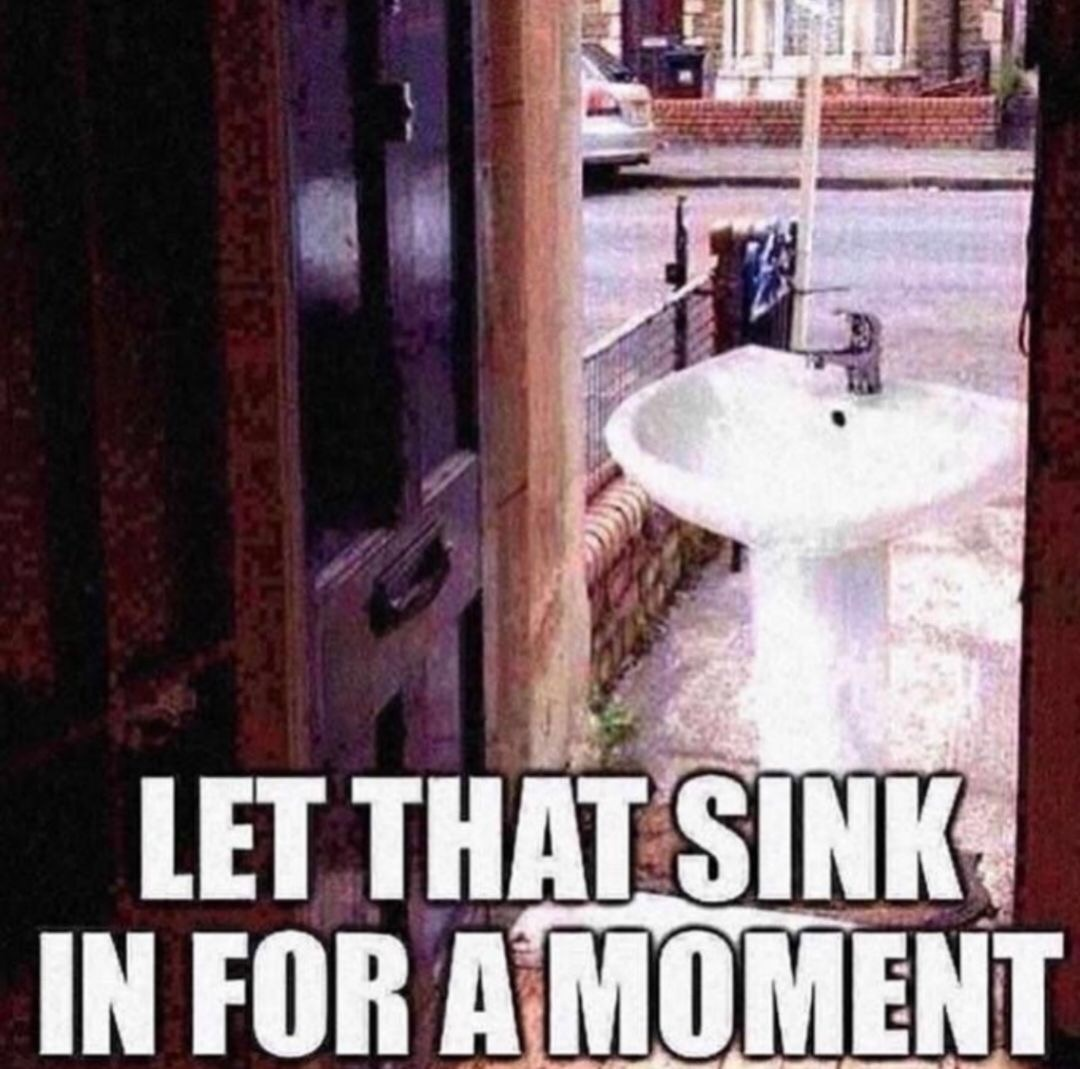
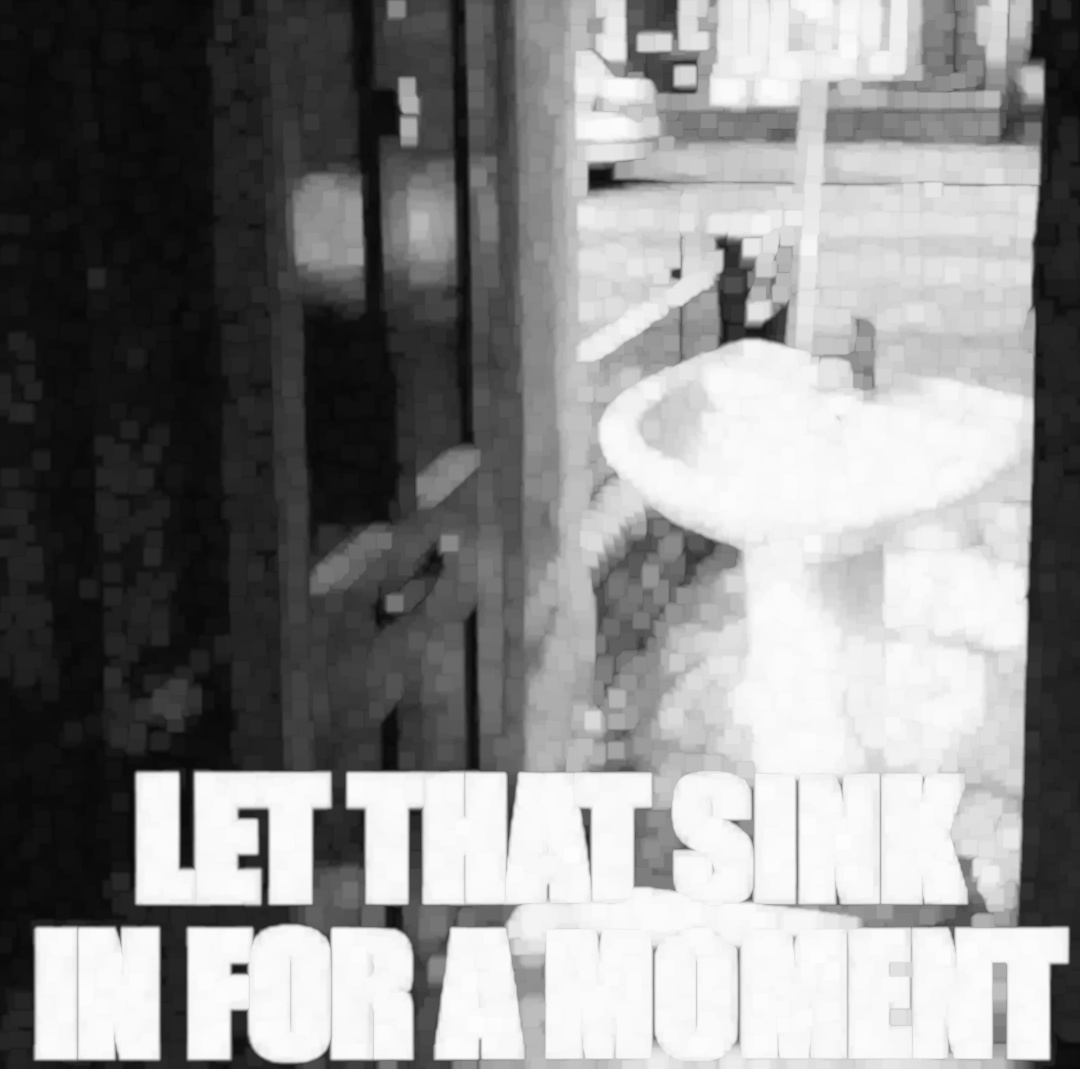
Filters are now fully working

diff --git a/src/main/java/org/jmll/imagefilter/App.java b/src/main/java/org/jmll/imagefilter/App.java
@@ -61,11 +61,13 @@ public class App {
 
                 try {
                     ArrayList<Filter> filtersList = new ArrayList<>();
+
                     filtersList.add(new GreyFilter());
                     filtersList.add(new BlurFilter(3));
                     filtersList.add(new DilateFilter(6));
+
                     for (Filter fi : filtersList) {
-                        fi.process(image);
+                        image = fi.process(image);
                     }
 
                 } catch (FilterException e) {

diff --git a/src/main/java/org/jmll/imagefilter/Filters/BlurFilter.java b/src/main/java/org/jmll/imagefilter/Filters/BlurFilter.java
@@ -15,7 +15,7 @@ public class BlurFilter extends Filter {
 
     public Mat process(Mat image) throws FilterException {
         // TODO : faire un try catch pour envoyer une exception qd size est pair
-        if (this.size % 2 != 0) {
+        if (this.size % 2 == 0) {
             throw new FilterException("An error occurred : Size not valid");
         }
 
